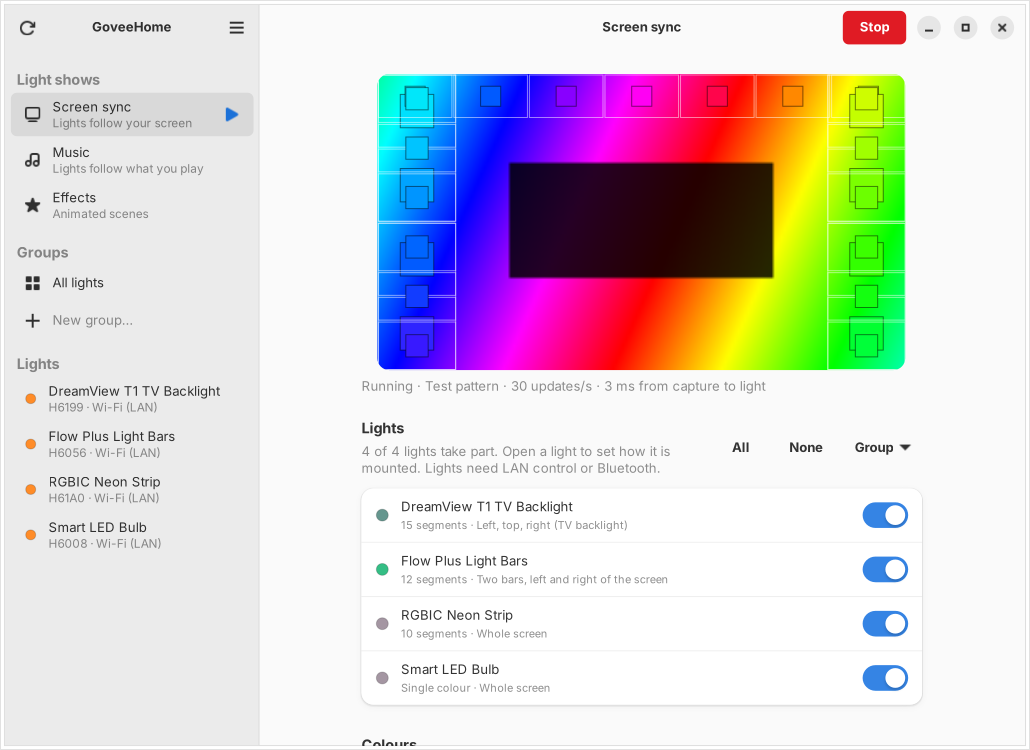
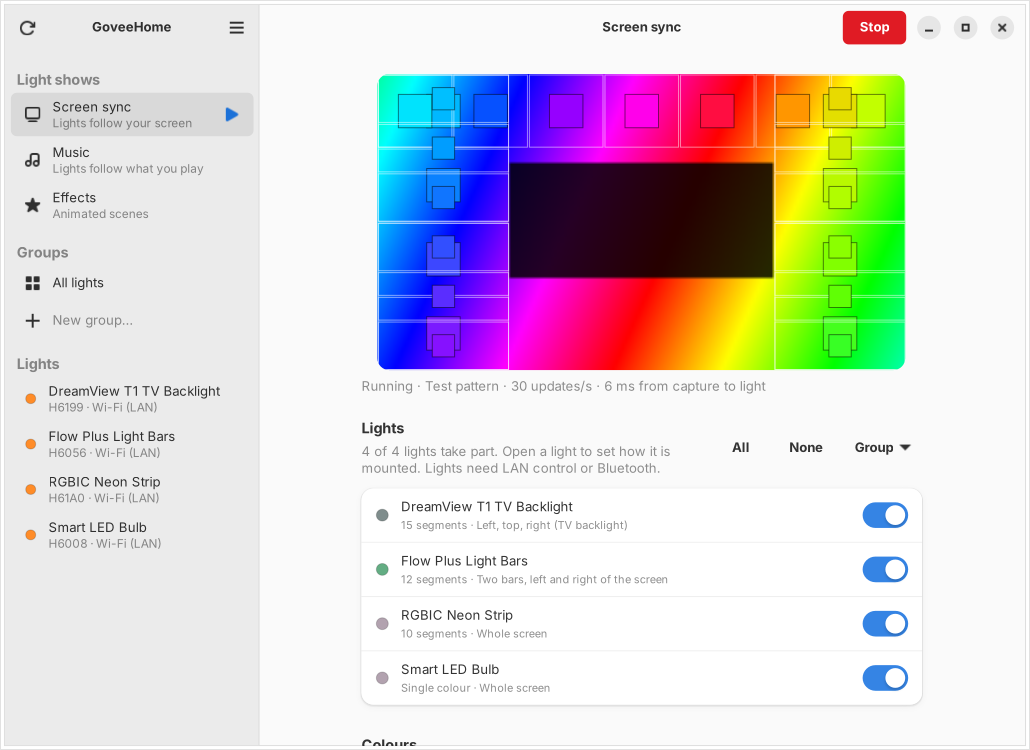
Docs and version for 1.4.0

Changed region(s): [[0.5282, 0.092, 0.8699, 0.4907], [0.3728, 0.092, 0.5282, 0.4907]]

diff --git a/goveehome/__init__.py b/goveehome/__init__.py
@@ -1,6 +1,6 @@
 """GoveeHome for Linux - control Govee lights from the Linux desktop."""
 
-__version__ = "1.3.0"
+__version__ = "1.4.0"
 APP_ID = "io.github.vanquish1905.GoveeHome"
 APP_NAME = "GoveeHome for Linux"
 GITHUB_REPO = "Vanquish1905/GoveeHome-For-Linux"

diff --git a/SETUP.md b/SETUP.md
@@ -91,7 +91,7 @@ make rpm
 ```
 
 ```bash
-sudo dnf install ~/rpmbuild/RPMS/noarch/goveehome-1.3.0-1.*.noarch.rpm
+sudo dnf install ~/rpmbuild/RPMS/noarch/goveehome-1.4.0-1.*.noarch.rpm
 ```
 
 ## 3. Install on other distributions
@@ -193,6 +193,12 @@ The preview shows what the app sees with each light's zones drawn on top. Check 
 colours on the light match the zones. Changes to mounting, direction and all the sliders
 apply while it runs.
 
+**Follow the video** (on by default): when a film or game plays in a window, the screen edges
+are usually a white web page or the desktop, and lights that look at the edges would just
+turn white. The app notices where the picture moves and lays the zones over the video
+instead; you can see the zones move onto it in the preview. When nothing moves for about ten
+seconds, or the video goes fullscreen, it uses the whole screen again.
+
 ### Getting the colours to match
 
 The defaults are a good start. If the lights still don't look like the screen, in this order:
@@ -203,12 +209,16 @@ The defaults are a good start. If the lights still don't look like the screen, i
 2. **LED gamma** (Screen sync → Colours): LEDs at half power look much brighter than a screen
    at half brightness. Gamma makes up for that. Colours look washed out or pastel → raise it
    (2.2–2.6). Dark scenes are too dark on the lights → lower it (1.6–1.8).
-3. **Colour pick**: *Accurate* is the true average of each zone. *Vivid* leans towards the
-   strong colours in a zone, good for games and cartoons. *Dominant* takes the colour that
-   covers the most of the zone, good for films with small bright highlights.
+3. **Colour pick**: *Colourful* (the default) lets the colours in a zone win over white, grey
+   and black areas, so a zone that is half white page and half red video gives red. *Dominant
+   colour* takes the colour that covers the most of the zone. *Exact average* is the plain
+   average of everything in the zone; it matches the screen literally, which on a normal
+   desktop mostly means white and grey.
 4. **Saturation** 100–130 % and **Black level** (colours darker than this are sent as black,
    so dark scenes don't turn the lights a dim brown).
 5. **Ignore black bars** stops letterboxed films from making the top and bottom zones black.
+6. **Edge depth** (Capture): how far into the screen the edge zones reach. 25 % by default;
+   higher picks up more of the picture, lower follows the very edge.
 
 ### Response
 
@@ -391,6 +401,15 @@ green = top, yellow = bottom). Change *Mounting* or *Reverse direction* until it
 Go through [Getting the colours to match](#getting-the-colours-to-match). With more than one
 monitor make sure the right one is captured (Wayland: *Ask again* and pick it; X11:
 *Capture → Monitor*).
+
+**Screen sync: the lights only show white (in different brightnesses)**
+
+That's what the screen edges look like on a normal desktop: white pages, grey windows. Update
+to 1.4.0 or newer, which takes the colours from the video instead (*Follow the video*) and
+uses the *Colourful* colour pick. Check that both are on in Screen sync. For a quick test,
+play a colourful video fullscreen. If the preview shows colour but the lights stay white,
+press *Identify* on the light's page; if that shows red and blue, the light is fine and the
+colour pick or *Saturation* needs raising, otherwise see *Segment streaming* above.
 
 **Lights flash or flicker at random**
 

diff --git a/README.md b/README.md
@@ -20,6 +20,8 @@ screen and your music, like DreamView and music mode in the Govee PC app.
   their zone
 - Mounting presets for TV and monitor backlights, single edges, columns and light bar pairs
   like the H6056 Flow Plus (one bar on each side of the screen)
+- *Follow the video*: when a film or game runs in a window, the lights take their colours
+  from it instead of the white page or desktop around it
 - An *Identify* test that shows on the light which side of the screen each segment follows
 - Colours that match: every screen pixel counts, mixing happens in linear light and the
   result is gamma corrected for LEDs; per-light white balance on top
@@ -131,13 +133,14 @@ Targets can be a name (or part of one), an IP address, a device id, or `all`.
    through X shared memory, both in a GStreamer pipeline. A leaky queue makes sure only the
    newest frame is ever processed, so delay can't build up. Lanczos scaling shrinks the
    frame to 640×360 using every screen pixel, then it's averaged down to 160×90.
-2. **Clean up.** A single black frame (which capture sometimes produces) is ignored, so the
-   lights don't flash off. Letterbox bars are cut off, but only real ones: black, symmetric,
-   with a sharp edge, and stable for a second.
+2. **Find the picture.** A single black frame (which capture sometimes produces) is ignored,
+   so the lights don't flash off. The app tracks where the picture moves; when a video plays
+   in a window, the zones are laid over the video instead of the whole screen, so the white
+   page around it doesn't turn the lights white. Letterbox bars of films are cut off.
 3. **Zones.** Each light gets one zone per segment, depending on how it's mounted.
-4. **Colour.** Each zone is averaged in linear light (half black and half white is a light
-   grey, not a dark one; red next to green mixes to yellow, not brown). Saturation and a
-   black level are applied.
+4. **Colour.** Within each zone, coloured pixels count far more than white, grey and black
+   ones, and mixing happens in linear light (red next to green gives yellow, not brown). A
+   zone that really is white stays white. Saturation and a black level are applied.
 5. **Smoothing.** Time based, 40 ms by default, and big jumps like scene cuts go through at
    once.
 6. **Output.** Colours are gamma corrected for LEDs and white balanced per light. Segment
